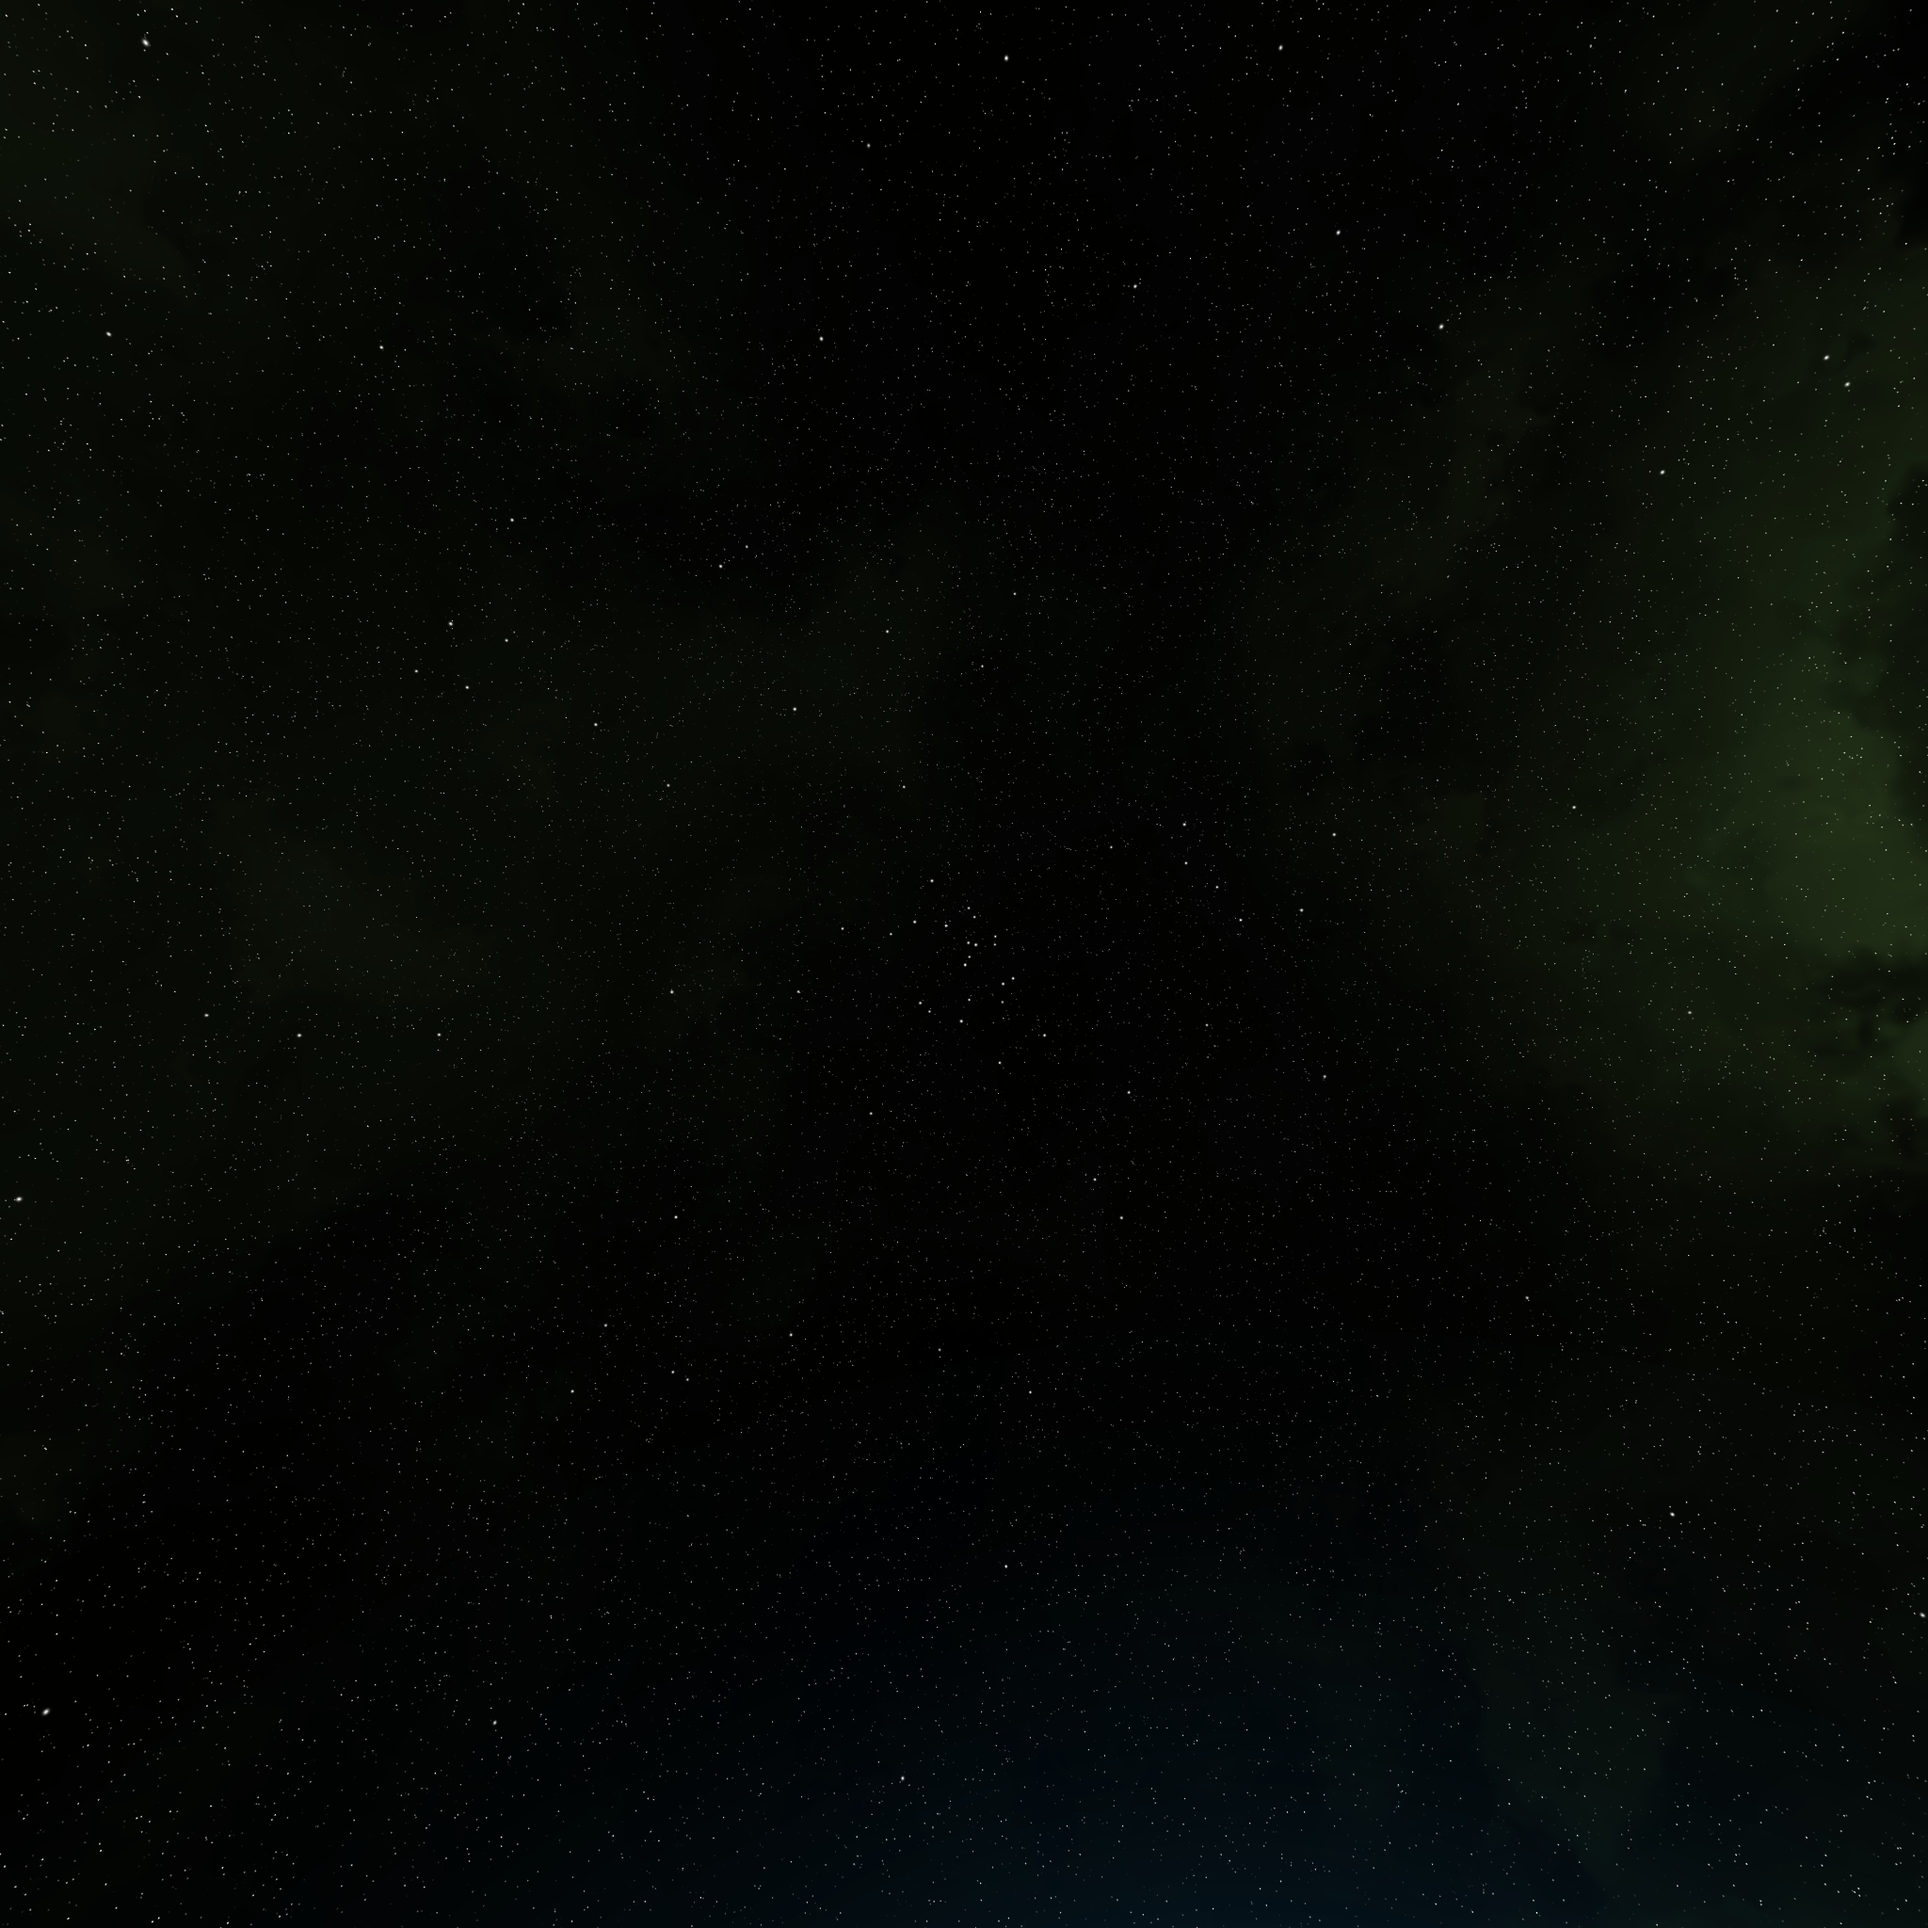
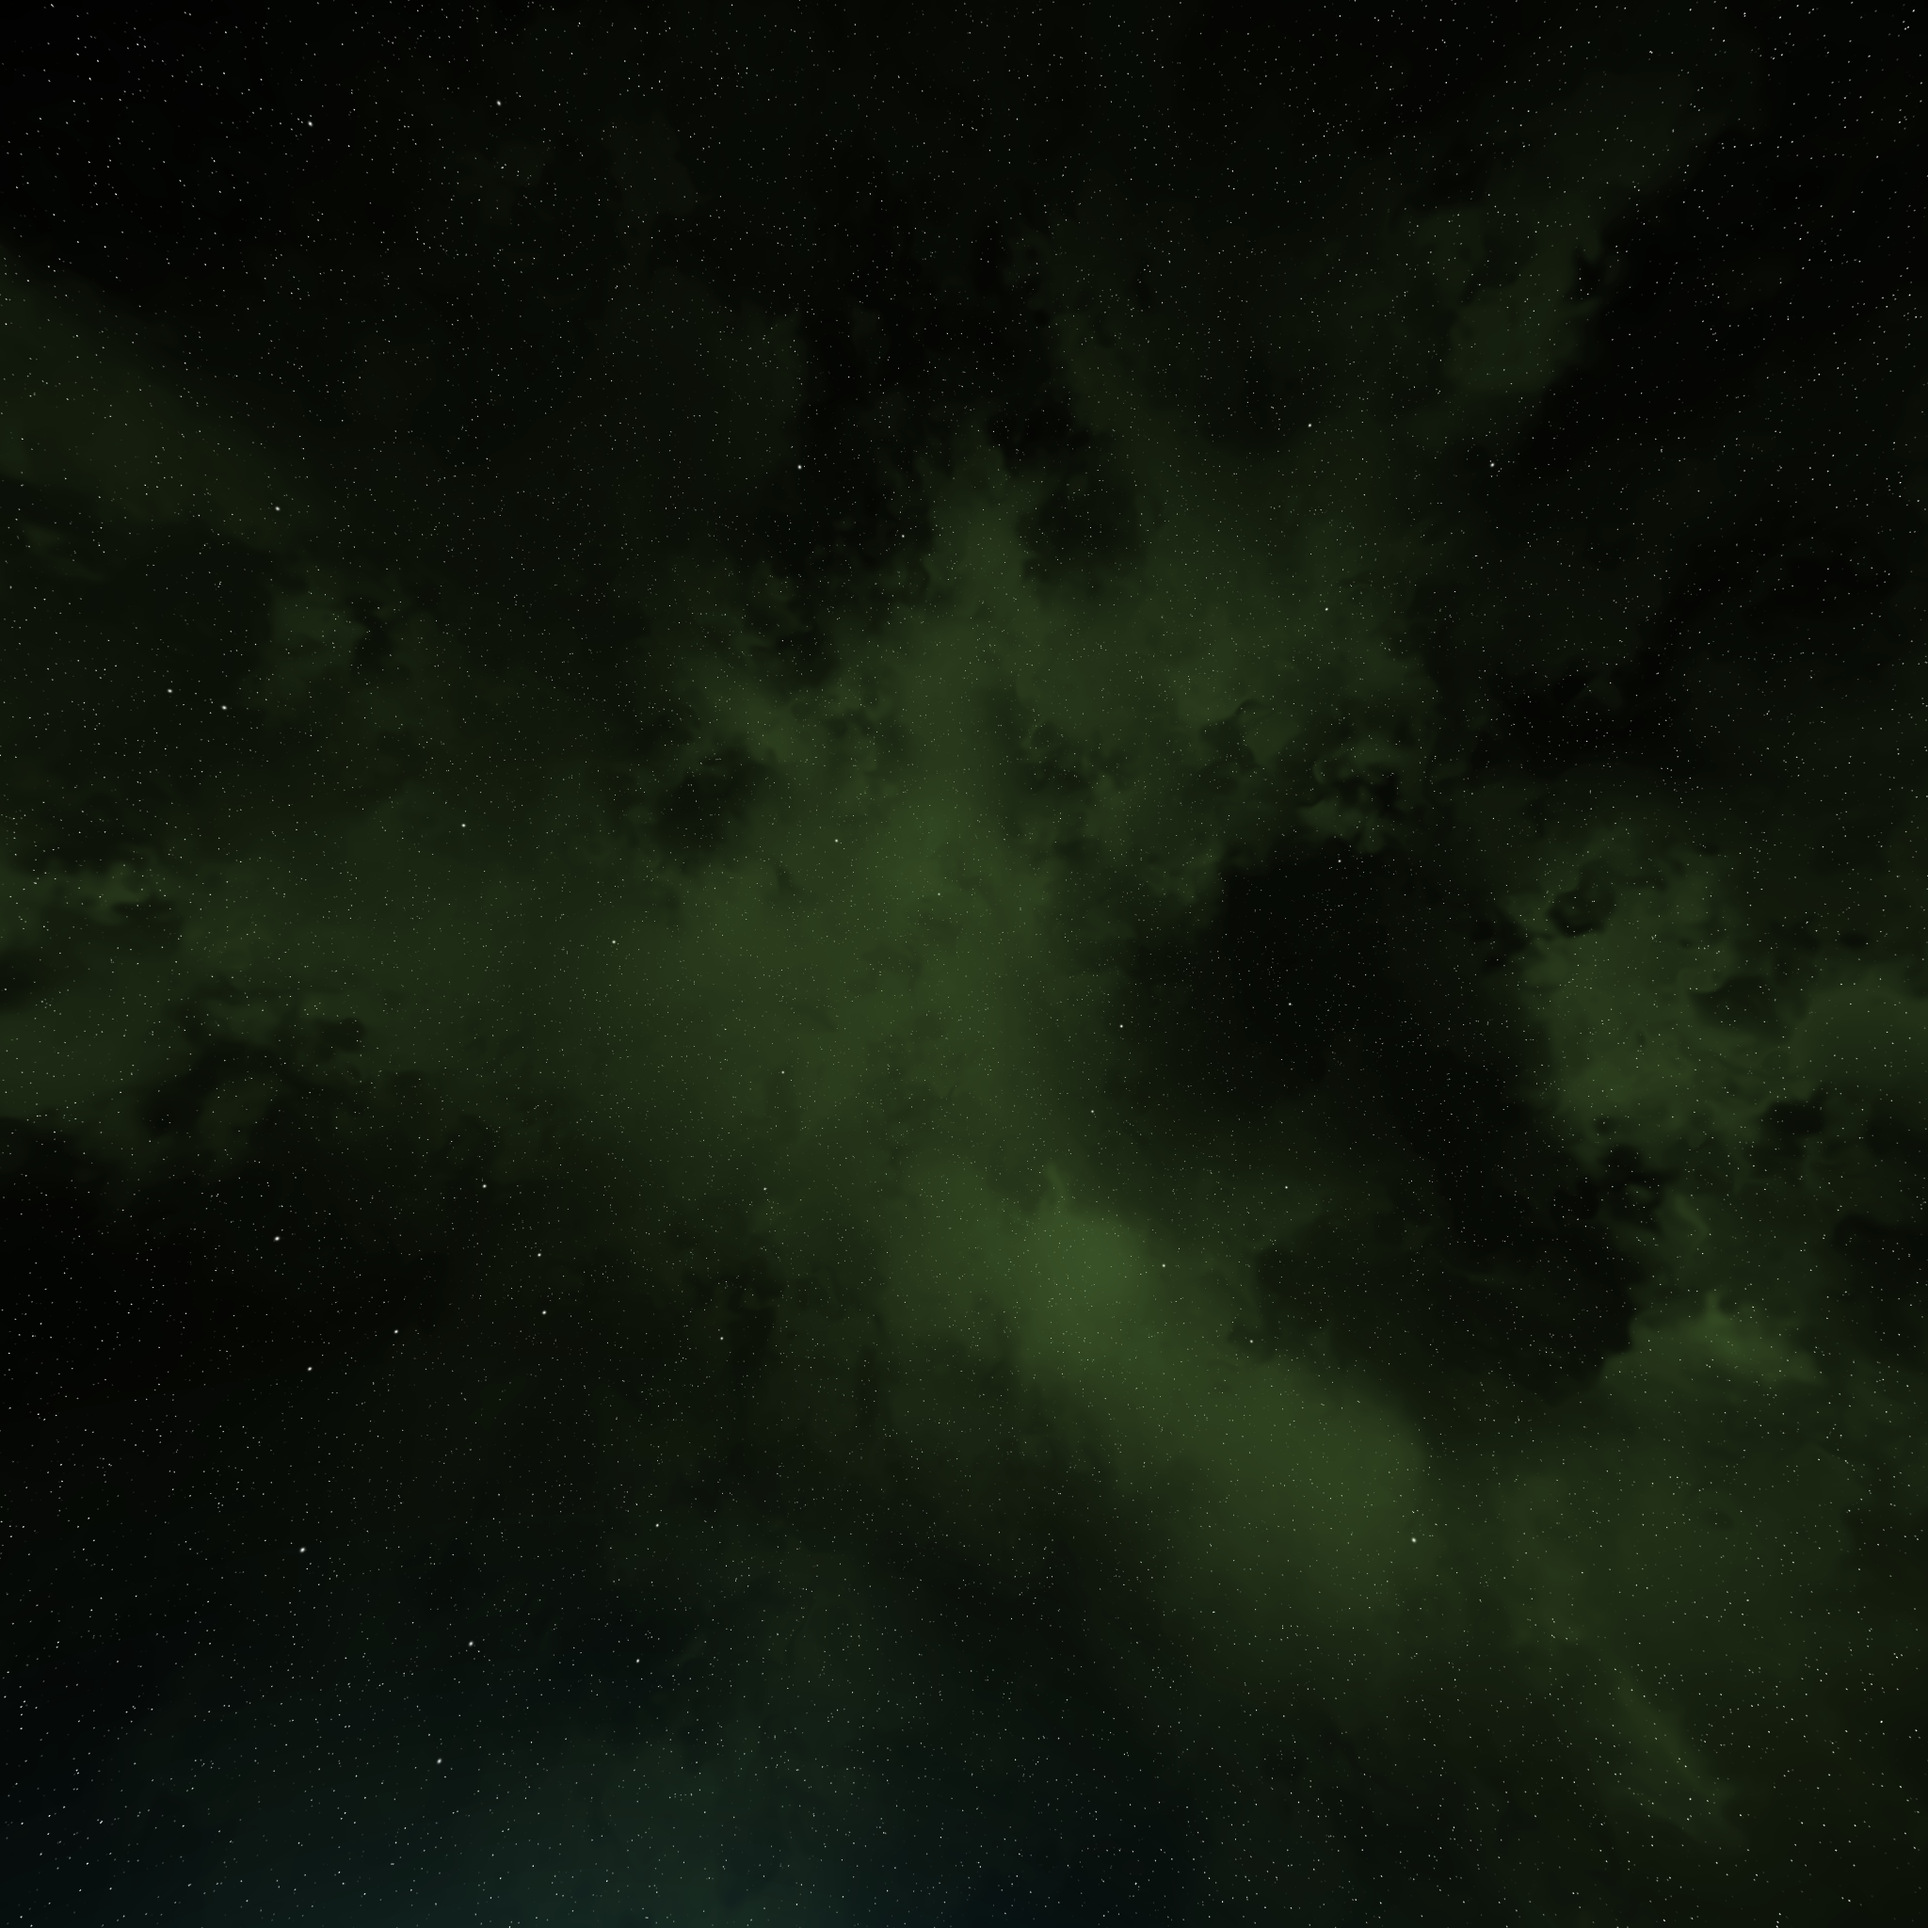
fix skybox aligns

diff --git a/AncientArcher/cpp/game/Game.cpp b/AncientArcher/cpp/game/Game.cpp
@@ -237,8 +237,8 @@ Game::Game()
     "../AncientArcher/cpp/pckgs/skybox/stars/left.png",
     "../AncientArcher/cpp/pckgs/skybox/stars/top.png",
     "../AncientArcher/cpp/pckgs/skybox/stars/bottom.png",
-    "../AncientArcher/cpp/pckgs/skybox/stars/back.png",
-    "../AncientArcher/cpp/pckgs/skybox/stars/front.png"
+    "../AncientArcher/cpp/pckgs/skybox/stars/front.png",
+    "../AncientArcher/cpp/pckgs/skybox/stars/back.png"
   };
 
   sky = new SkyboxRenderer(skyboxFiles);
